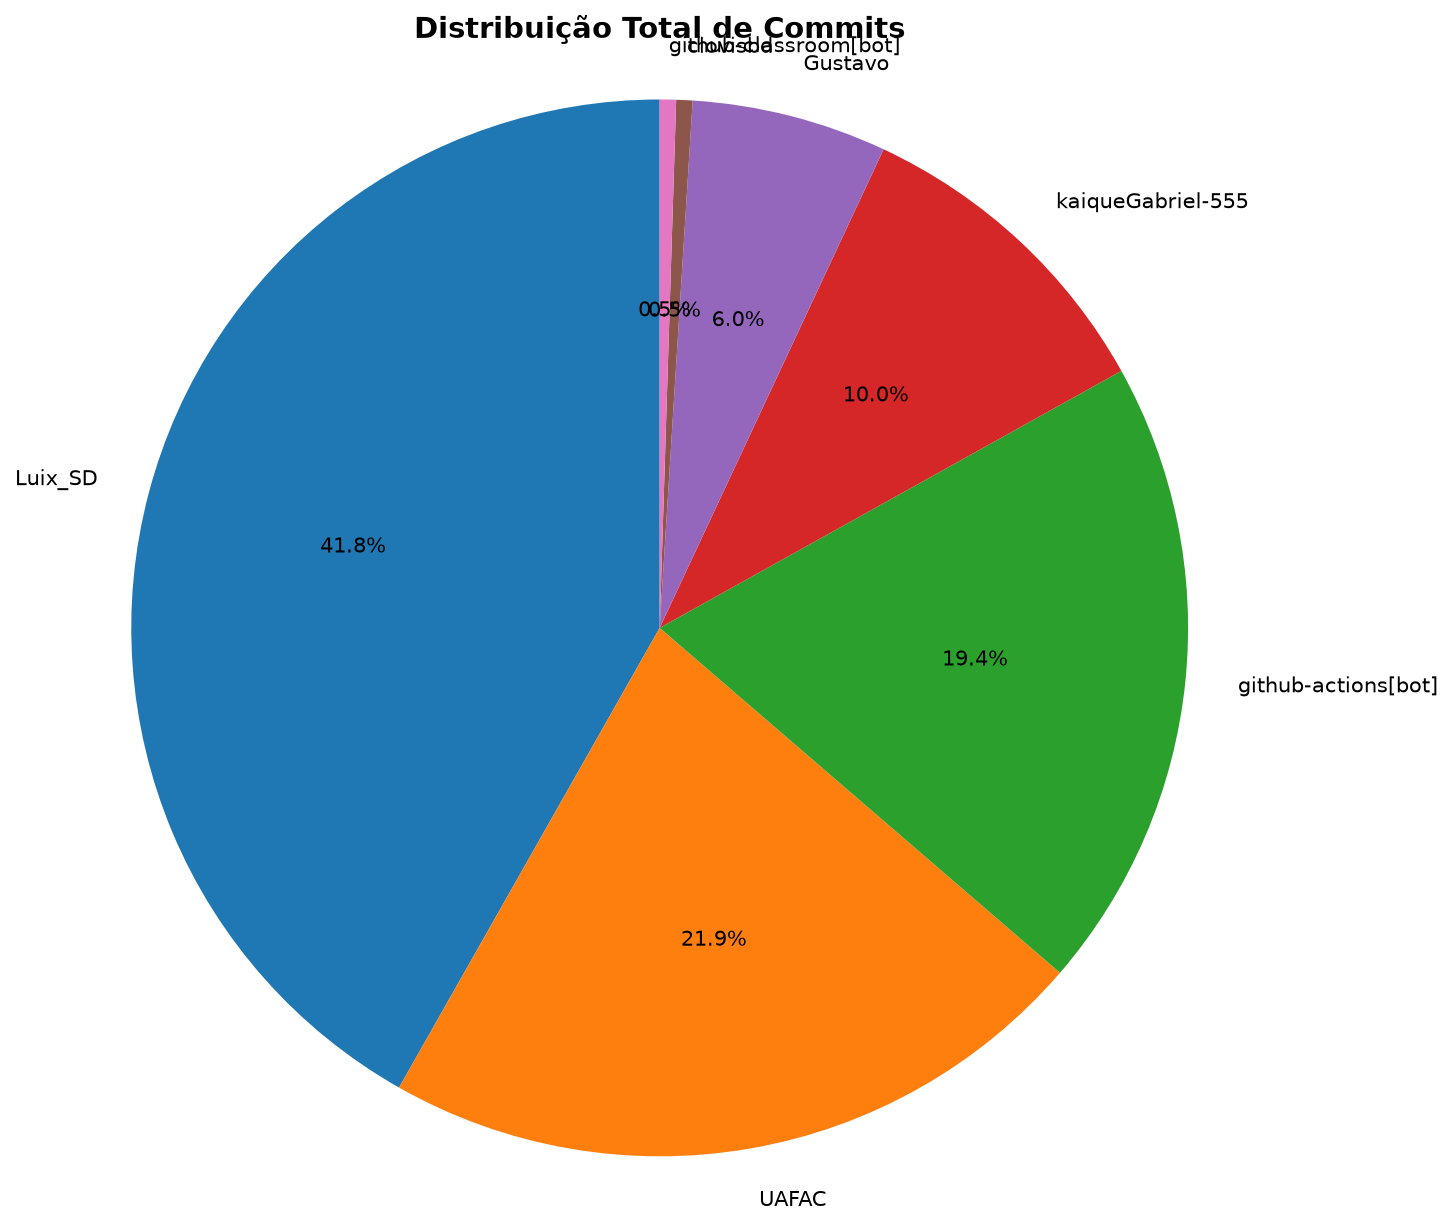
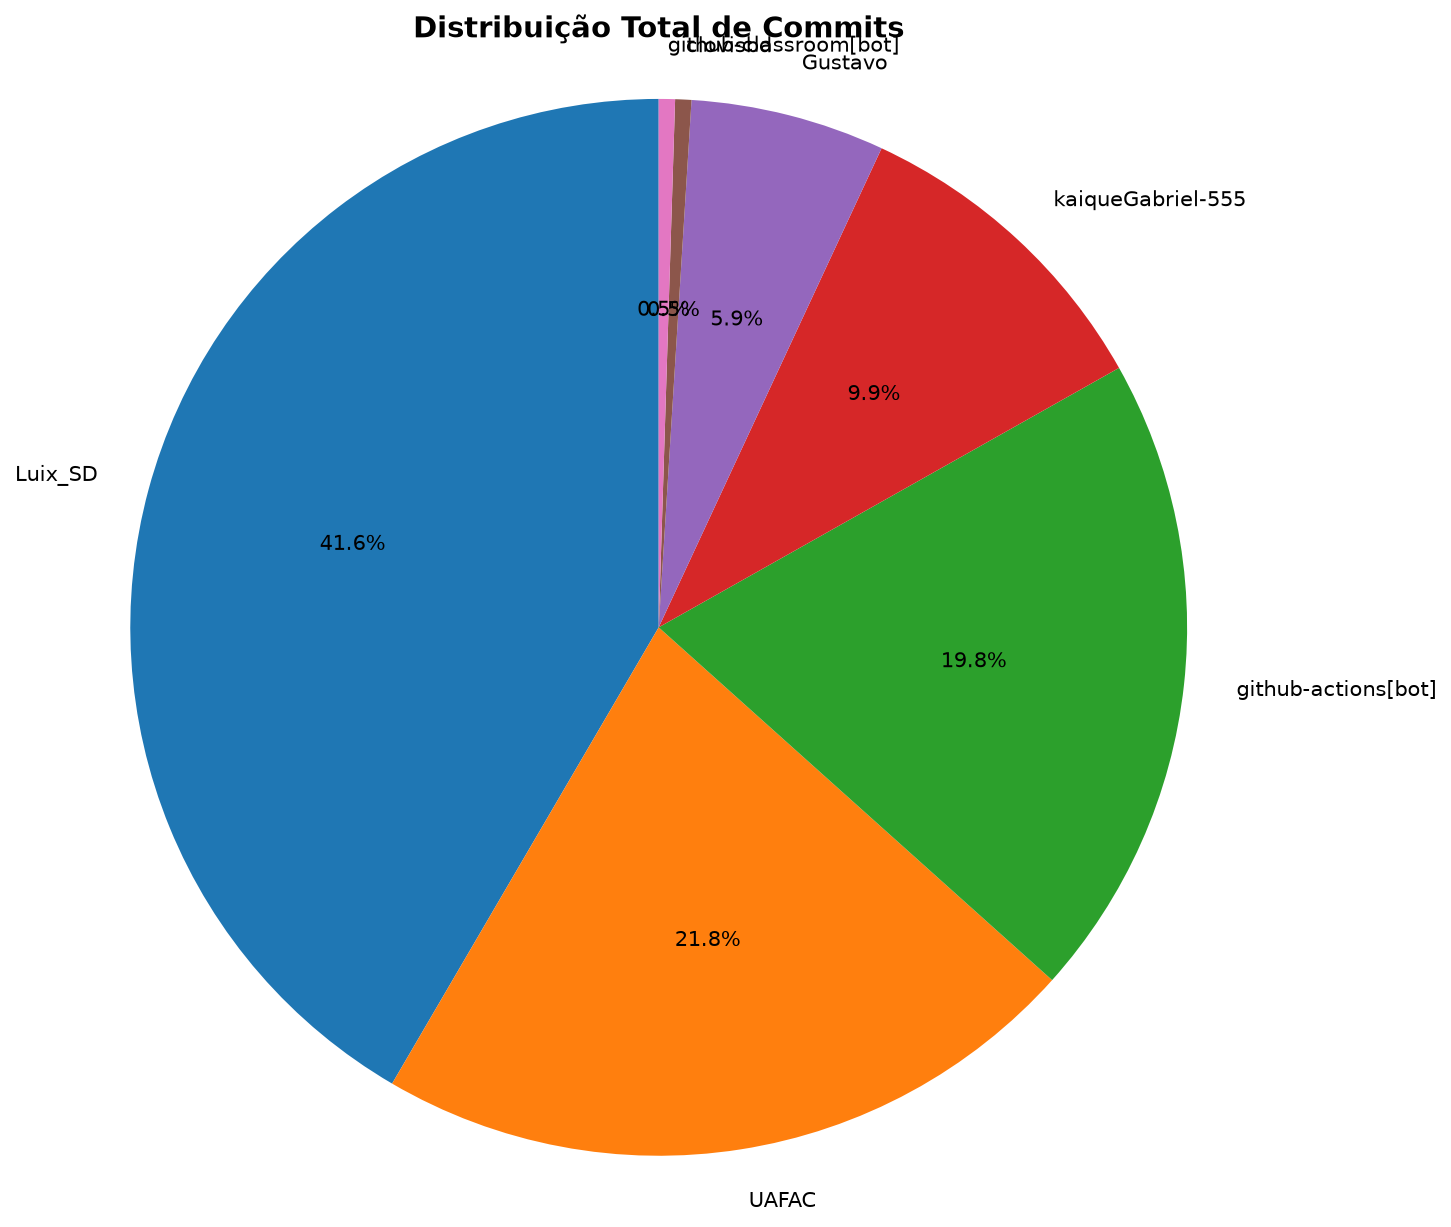
📊 Atualizar relatório de contribuições [skip ci]

diff --git a/documentos/CONTRIBUTION_REPORT.md b/documentos/CONTRIBUTION_REPORT.md
@@ -1,6 +1,6 @@
 # 📊 Relatório de Contribuições do Projeto
 
-**Última atualização:** 31/08/2026 04:58
+**Última atualização:** 07/09/2026 04:03
 
 ---
 
@@ -12,12 +12,14 @@
 | Luix_SD               |        84 |      4602 |      1753 |         70 |             23 |               3 |
 | UAFAC                 |        44 |      7208 |      7561 |        102 |             29 |               3 |
 | clovisbd              |         1 |         5 |         0 |          1 |              0 |               0 |
-| github-actions[bot]   |        39 |       457 |       192 |          3 |             38 |               1 |
+| github-actions[bot]   |        40 |       466 |       199 |          3 |             39 |               1 |
 | github-classroom[bot] |         1 |       774 |         0 |         19 |              1 |               3 |
 | kaiqueGabriel-555     |        20 |       564 |       276 |          8 |             19 |               2 |
 
 
 ## 📅 Contribuições Semanais (Todo o Semestre)
+
+**2026-08-31**: github-actions[bot]: 1
 
 **2026-08-17**: github-actions[bot]: 1
 
@@ -31,17 +33,17 @@
 
 **2026-07-13**: github-actions[bot]: 1
 
-**2026-07-06**: github-actions[bot]: 1
+**2026-07-06**: github-actions[bot]: 2
 
 **2026-06-29**: github-actions[bot]: 1
 
-**2026-06-22**: github-actions[bot]: 2
+**2026-06-22**: github-actions[bot]: 1
 
 **2026-06-15**: github-actions[bot]: 1
 
 **2026-06-08**: Luix_SD: 18, github-actions[bot]: 5
 
-**2026-06-01**: Gustavo: 12, Luix_SD: 22, UAFAC: 21, github-actions[bot]: 4, kaiqueGabriel-555: 19
+**2026-06-01**: Gustavo: 12, Luix_SD: 22, UAFAC: 21, github-actions[bot]: 5, kaiqueGabriel-555: 19
 
 **2026-05-25**: Luix_SD: 11, github-actions[bot]: 9, kaiqueGabriel-555: 1
 
@@ -49,7 +51,7 @@
 
 **2026-05-11**: Luix_SD: 1, github-actions[bot]: 1
 
-**2026-05-04**: Luix_SD: 28, clovisbd: 1, github-actions[bot]: 8
+**2026-05-04**: Luix_SD: 28, clovisbd: 1, github-actions[bot]: 7
 
 **2026-04-27**: Luix_SD: 4
 
